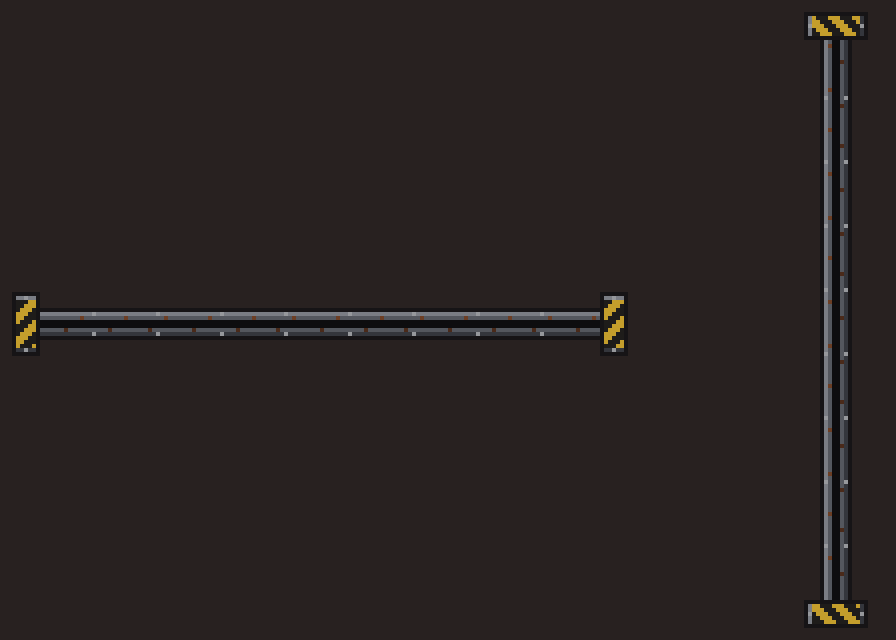
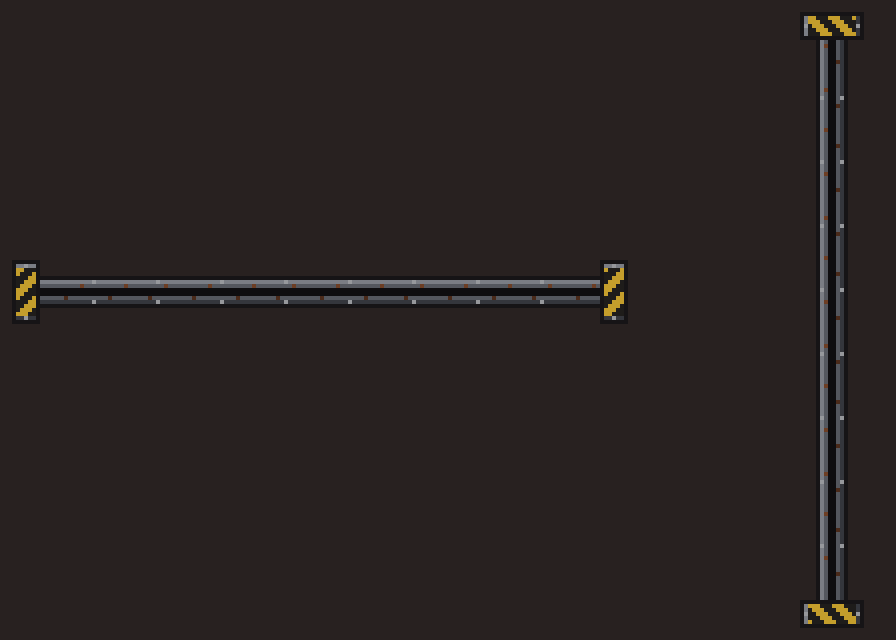
Tracks back on Terrain, rail centred on the platform deck
- Remove the Tracks layer (template, start room, Aerie; both were
  empty) and the catwalk-to-platform conversion. Tracks are painted on
  Terrain and platforms placed as scenes, as before; the scene keeps
  its built-in deck shape.
- Side-to-side track tiles: the rail is centred on the catwalk deck's
  height so the platform rides along it. The up-and-down rail stays
  centred on its column.
- Tests and guide back to tracks on Terrain.

diff --git a/art/README.md b/art/README.md
@@ -54,11 +54,11 @@ Rooms are scenes made in the Godot editor. Each tile you paint says what it is (
 1. **Start from the template.** Duplicate `scenes/rooms/room_template.tscn` (right-click it in the FileSystem dock, then *Duplicate*). Rename the root node, and set its `room` to the new room's id.
 2. **Add it to the game.** Add the id and scene path to `ROOMS` in `scripts/level_data.gd`. Doors can then lead to it, and the level select lists it.
 3. **Paint the Terrain layer** with `art/tiles/foreground_tileset.tres`. The room's top-left corner is cell (0, 0). Use the *Terrains* tab for brushes that pick the right edge tiles on their own: **concrete** for solid ground, **catwalk** for one-way platforms, **spikes**, and **sewer** for acid water. To place one exact tile, pick it from the *Tiles* tab instead. Door tiles go here too.
-4. **Moving platforms (Tracks layer).** Select the Tracks layer and paint a track with the **track** brush. A track is a straight line, either side to side or up and down. Then select Terrain and paint catwalk over the track. When the room loads, each catwalk run that touches a track becomes a moving platform, as wide as the run.
-   - **Side to side:** the whole deck stays between the track's end stops.
-   - **Up and down:** paint the catwalk across the rail. The deck stays centred on the rail.
+4. **Moving platforms.** Paint a track on the Terrain layer with the **track** brush. A track is a straight line, either side to side or up and down. Then drag `scenes/props/moving_platform.tscn` onto Entities and put its origin, the middle of the deck's top edge, on the track.
+   - **Side to side:** the deck rides along the rail at the top of the track tiles, and stays between the end stops.
+   - **Up and down:** the deck stays centred on the rail.
 
-   Platforms go back and forth and pause at each end. To give one its own `speed` or `end_pause`, place `scenes/props/moving_platform.tscn` under Entities instead of painting it. Put its origin, the middle of the deck's top edge, on the track. Older rooms get a Tracks layer the first time you open them. Save the scene to keep it.
+   Platforms go back and forth and pause at each end. Set `width_tiles`, `speed` and `end_pause` in the Inspector. A platform placed off a track stays still.
 5. **Paint the Gates layer** where a boss arena's gates go, with the shut gate tiles. They show raised until a fight starts, then drop shut.
 6. **Paint the wall (Background layer).** The game shows exactly what you paint here. Any cell left empty is open, and the skyline shows through it.
    - Press **Decorate wall** in the root's Inspector to fill every empty cell with brick, windows, lights, posters and graffiti. Cells you've already painted are kept. Then edit the result by hand.
